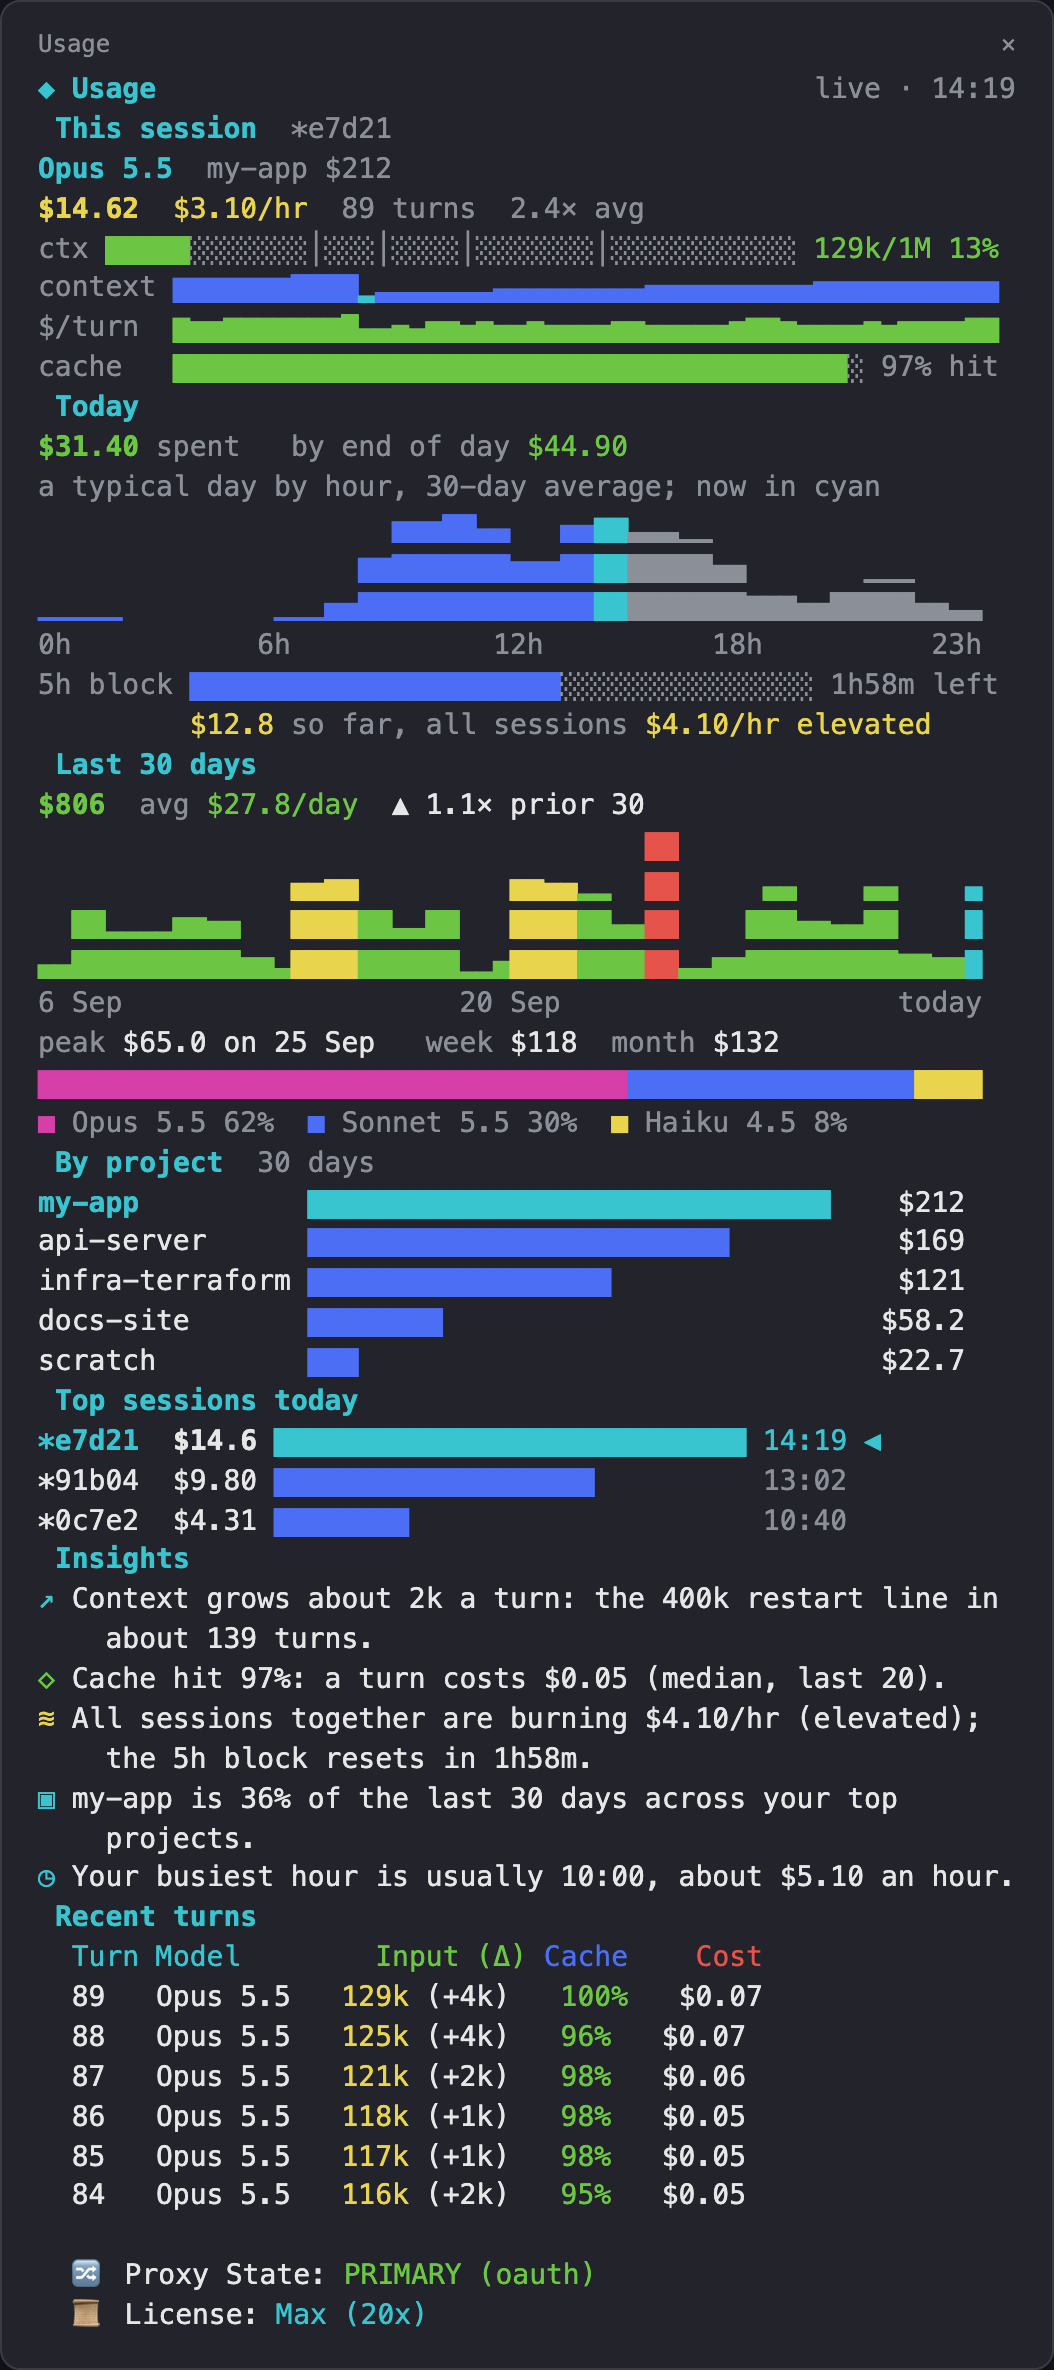
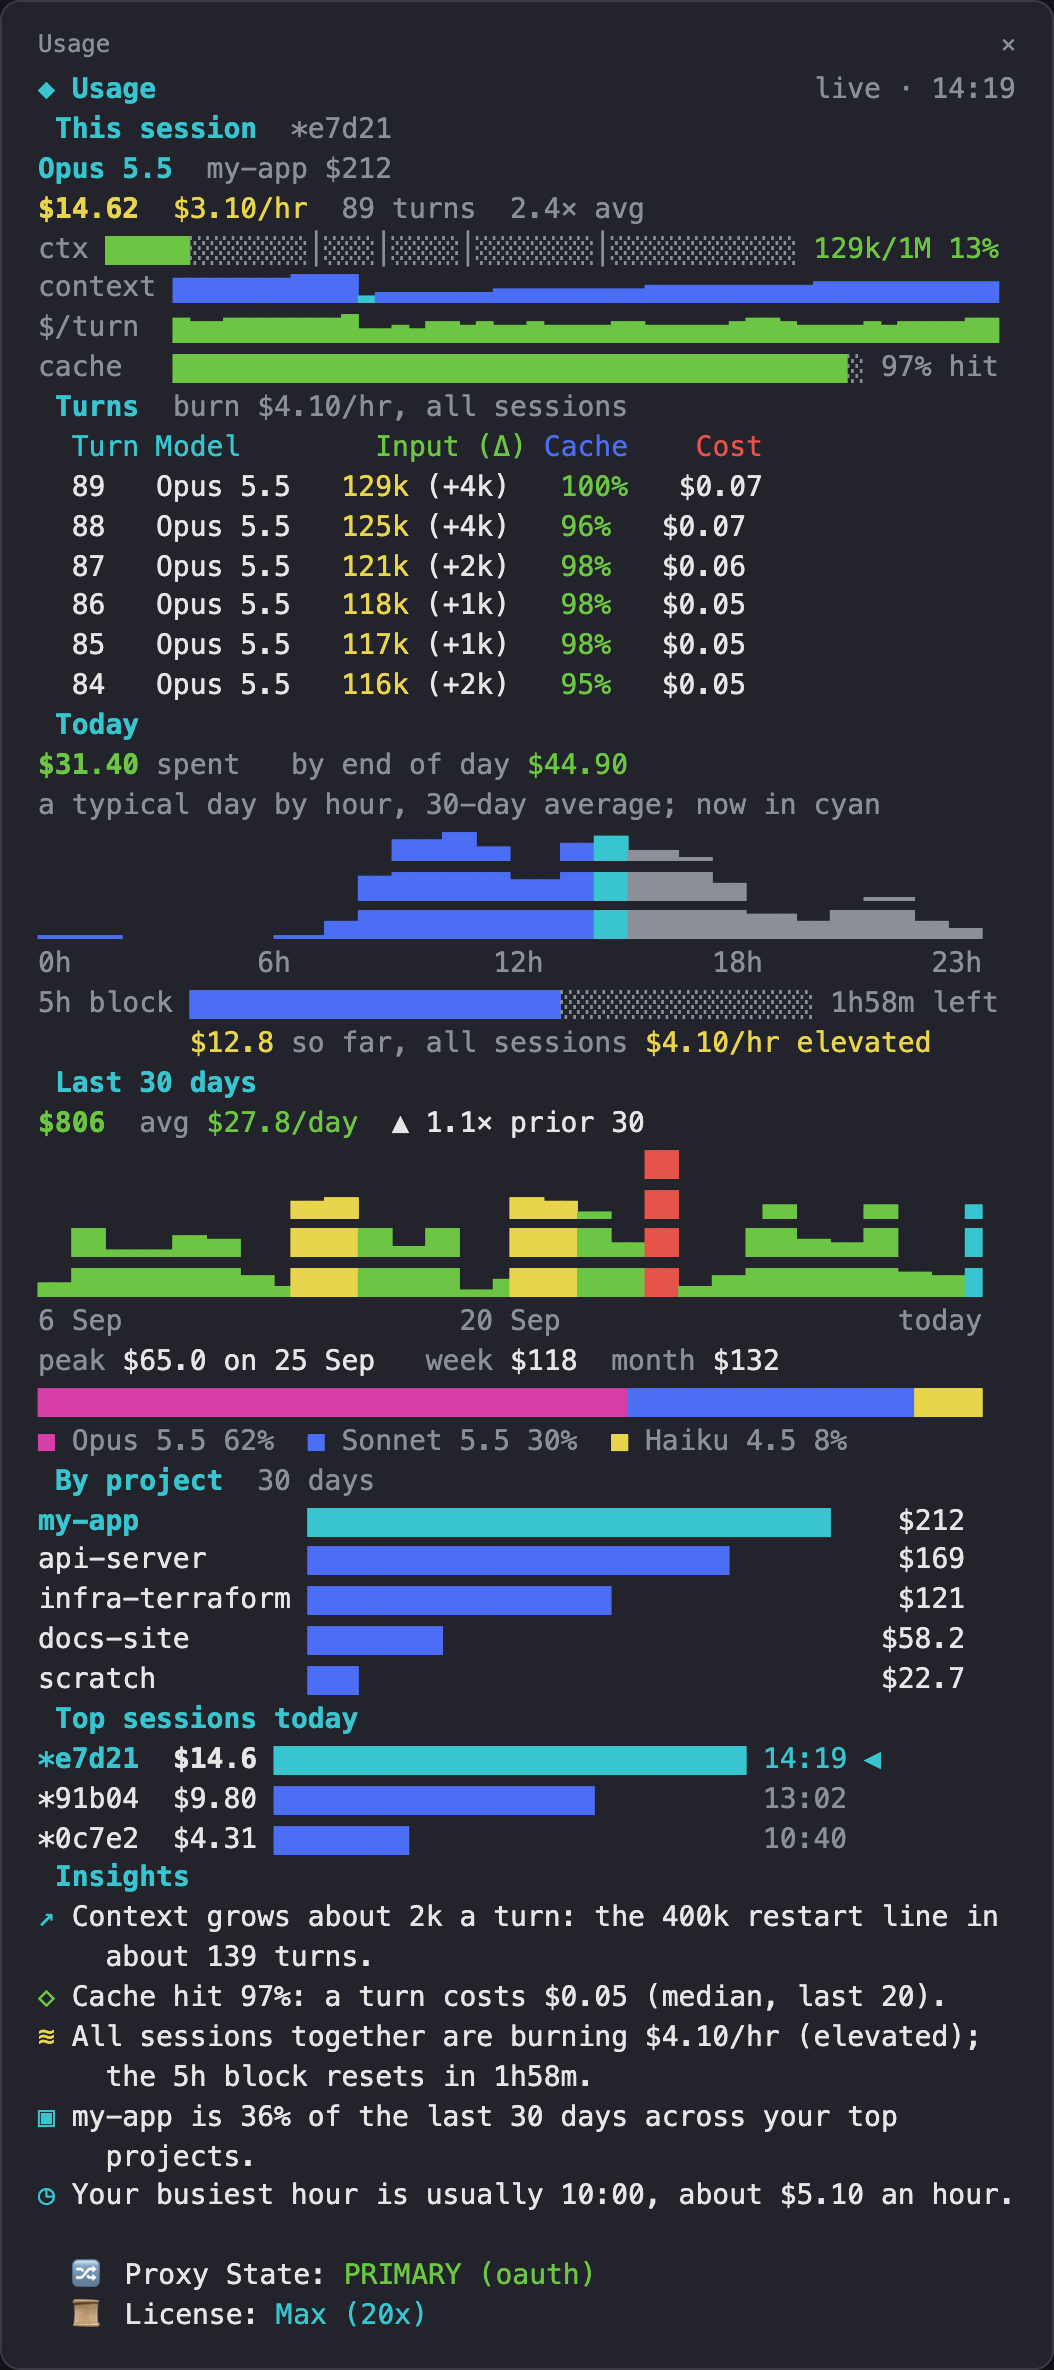
Sidebar: the turn table straight under the session's graphs, all 12 rows, with the burn rate
At the bottom it sat below the fold, so the one section the split was used for
went unseen.

diff --git a/mods/usage-panel/hooks/register.js b/mods/usage-panel/hooks/register.js
@@ -142,6 +142,9 @@ export function panel(Box, Text, d, width, now, feedError) {
   if (feedError) rows.push(T(feedError, { color: 'red', wrap: 'wrap' }))
 
   rows.push(...sessionSection(Box, T, d, W))
+  // The turn table straight under the session it belongs to, not at the
+  // bottom of the sidebar, where it sat below the fold and went unseen.
+  rows.push(...turnsTable(T, d))
   rows.push(...todaySection(Box, T, d, W, now))
   rows.push(...daysSection(Box, T, d, W))
   rows.push(...projectsSection(Box, T, d, W))
@@ -153,7 +156,6 @@ export function panel(Box, Text, d, width, now, feedError) {
       rows.push(Box({ flexDirection: 'row', children: [T((t.icon || '•') + ' ', { color: TIER[t.tier] || ACCENT }), T(t.text, { wrap: 'wrap' })] }))
     }
   }
-  rows.push(...turnsTable(T, d))
   rows.push(...footer(Box, T, d))
   return rows
 }
@@ -465,8 +467,9 @@ export function insights(d, now) {
 function turnsTable(T, d) {
   const lines = parseAnsi(d.table || '')
   if (lines.length === 0) return []
-  const out = [heading(T, 'Recent turns')]
-  for (const line of lines.slice(0, 9)) out.push(lineText(T, line))
+  const b = d.block || {}
+  const out = [heading(T, 'Turns', b.active ? 'burn ' + money(b.cph, 2) + '/hr, all sessions' : '')]
+  for (const line of lines.slice(0, 13)) out.push(lineText(T, line))
   return out
 }
 

diff --git a/mods/usage-panel/tests/usage-panel.test.ts b/mods/usage-panel/tests/usage-panel.test.ts
@@ -122,6 +122,10 @@ test('the sidebar draws the session, today, 30 days, projects, top sessions and 
   // The panel's own rows keep the panel's colours.
   expect((await ui.find({ type: 'Text', text: /^PRIMARY \(oauth\)$/ })).props.color).toBe('ansi256(2)')
   expect(await ui.find({ type: 'Text', text: /^  1039 Opus 5\.5/ })).toBeDefined()
+  // Directly under the session's graphs, above Today, so it is on screen.
+  const drawn = JSON.stringify(await ui.drawn())
+  expect(drawn.indexOf('1039 Opus 5.5')).toBeGreaterThan(drawn.indexOf('This session'))
+  expect(drawn.indexOf('1039 Opus 5.5')).toBeLessThan(drawn.indexOf('"Today"'))
   expect(await ui.find({ type: 'Text', text: /^178k$/ })).toBeDefined()
   // Graphs: the 30-day bars mark the outlier day red.
   expect(await ui.find({ type: 'Text', text: /█/, color: 'red' })).toBeDefined()

diff --git a/README.md b/README.md
@@ -23,7 +23,7 @@ On a Claude Code that loads mods, setup installs the **usage-panel mod** (`mods/
 - **Last 30 days:** total and daily average against the 30 days before, a daily bar chart with expensive days in amber and red, the peak day, week and month, and a bar of each model's share.
 - **By project** and **top sessions today**, as bar charts, with this session's project and row highlighted.
 - **Insights:** a few plain sentences, only when there is something to say: when the context reaches the restart line at its current growth, a low cache hit rate, a turn that cost several times the median, a session far above your average, a busy or quiet day for this hour, a high burn rate, the project taking most of the month, your usual busiest hour.
-- **The turn table**, Proxy State and License rows, exactly as the panel draws them.
+- **The turn table**, straight under the session graphs, and the Proxy State and License rows at the bottom, exactly as the panel draws them.
 
 | Command | |
 |---|---|
